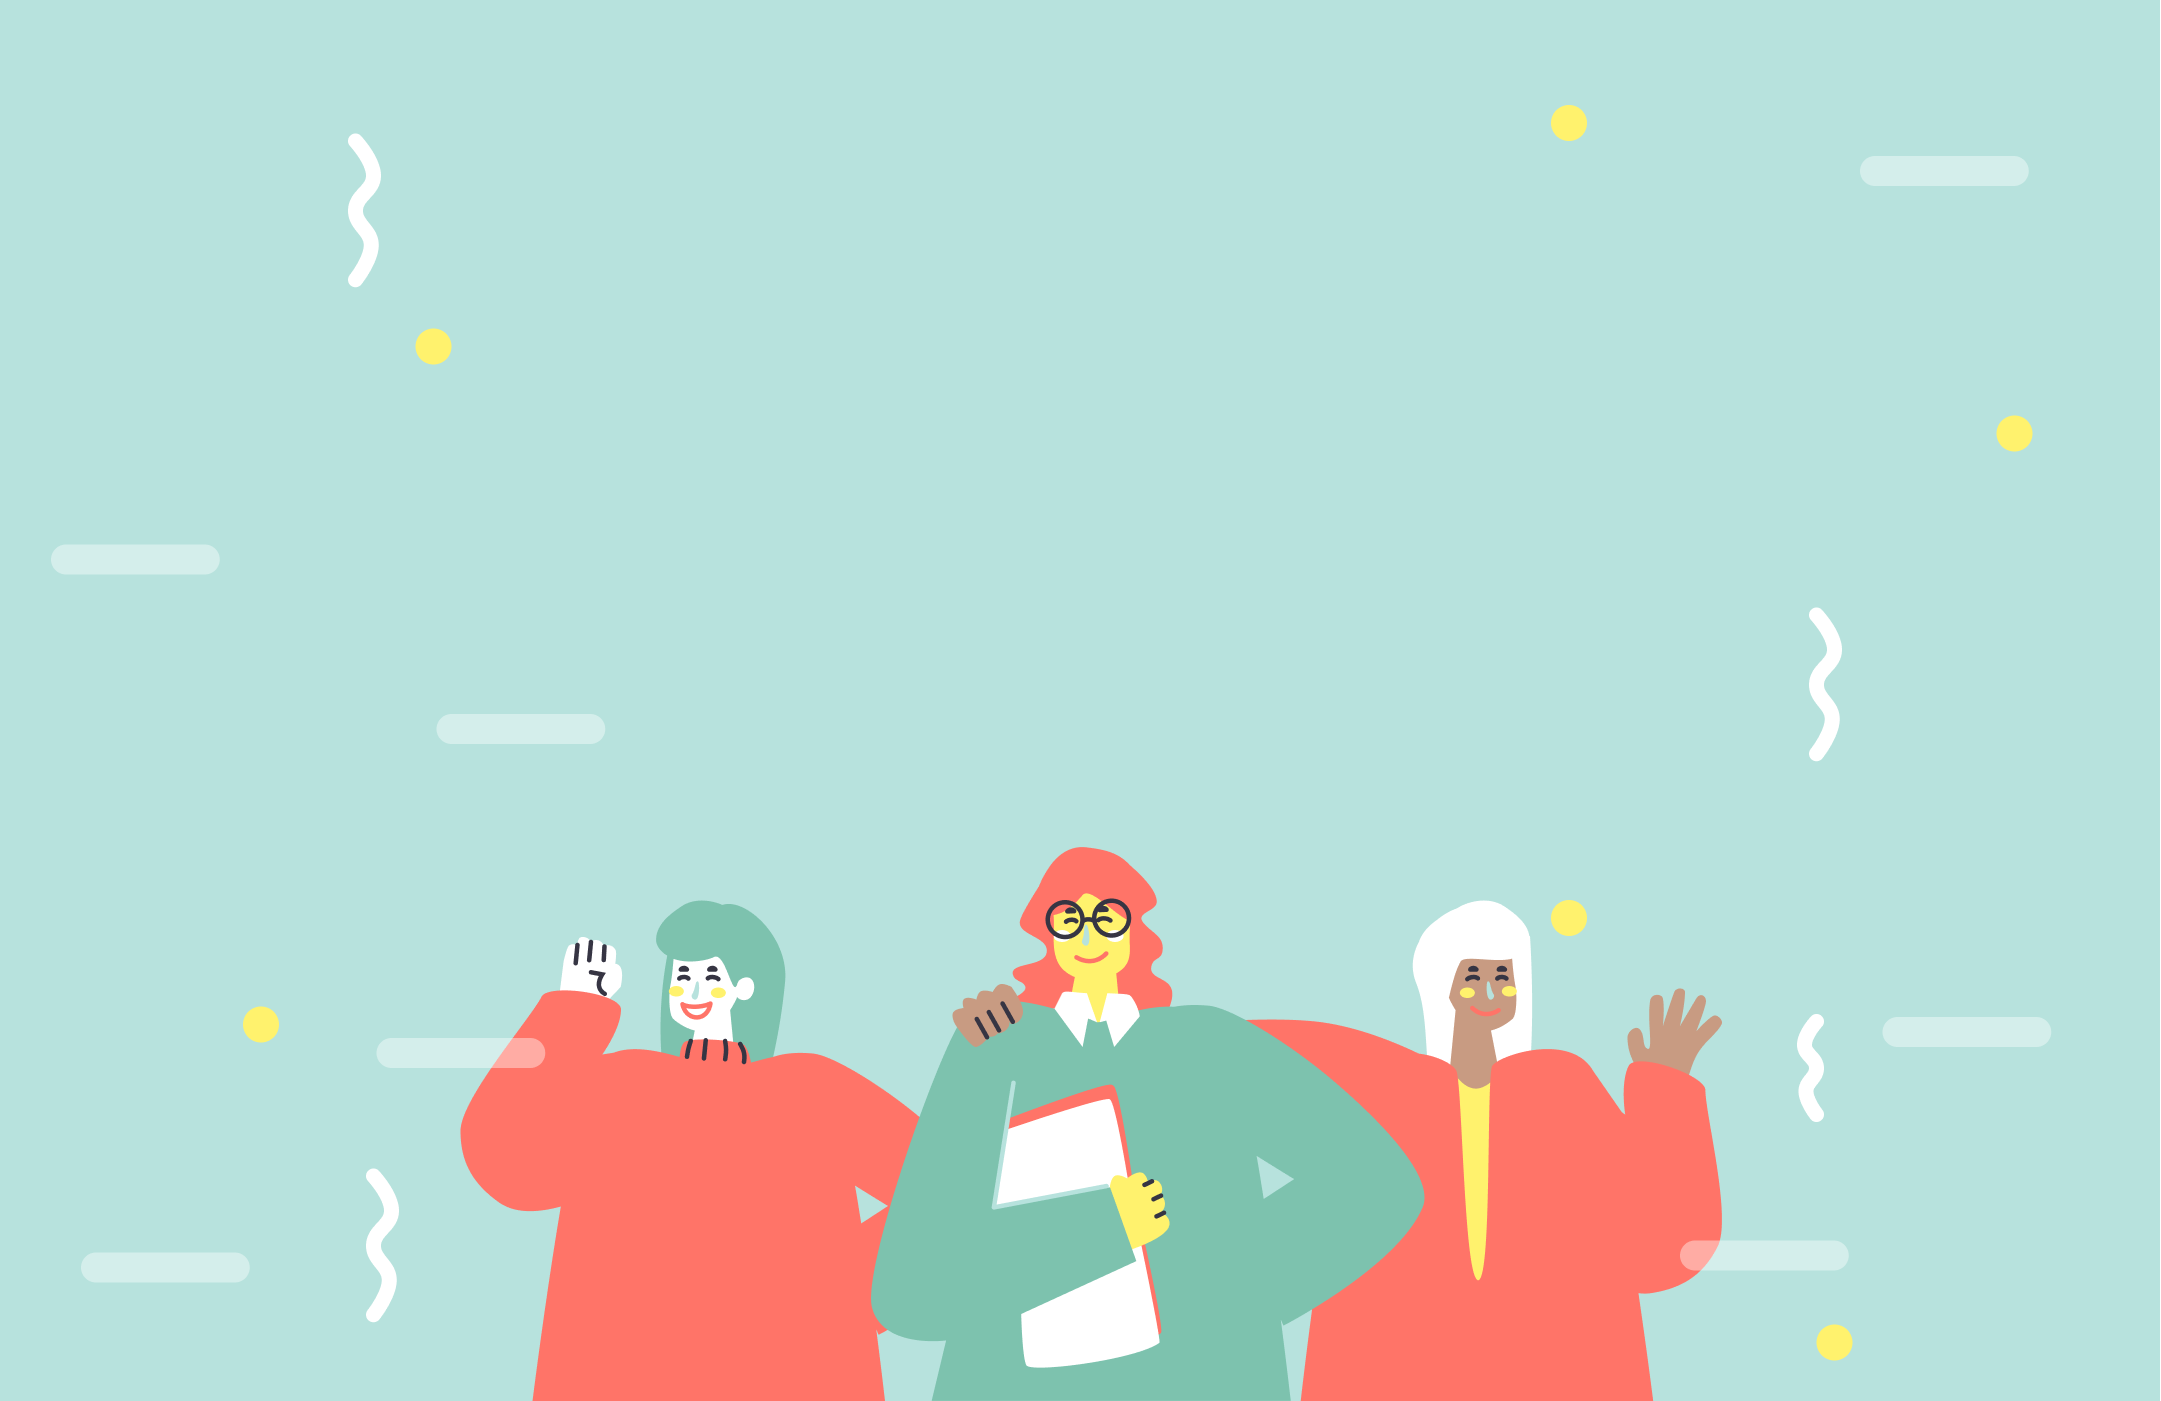
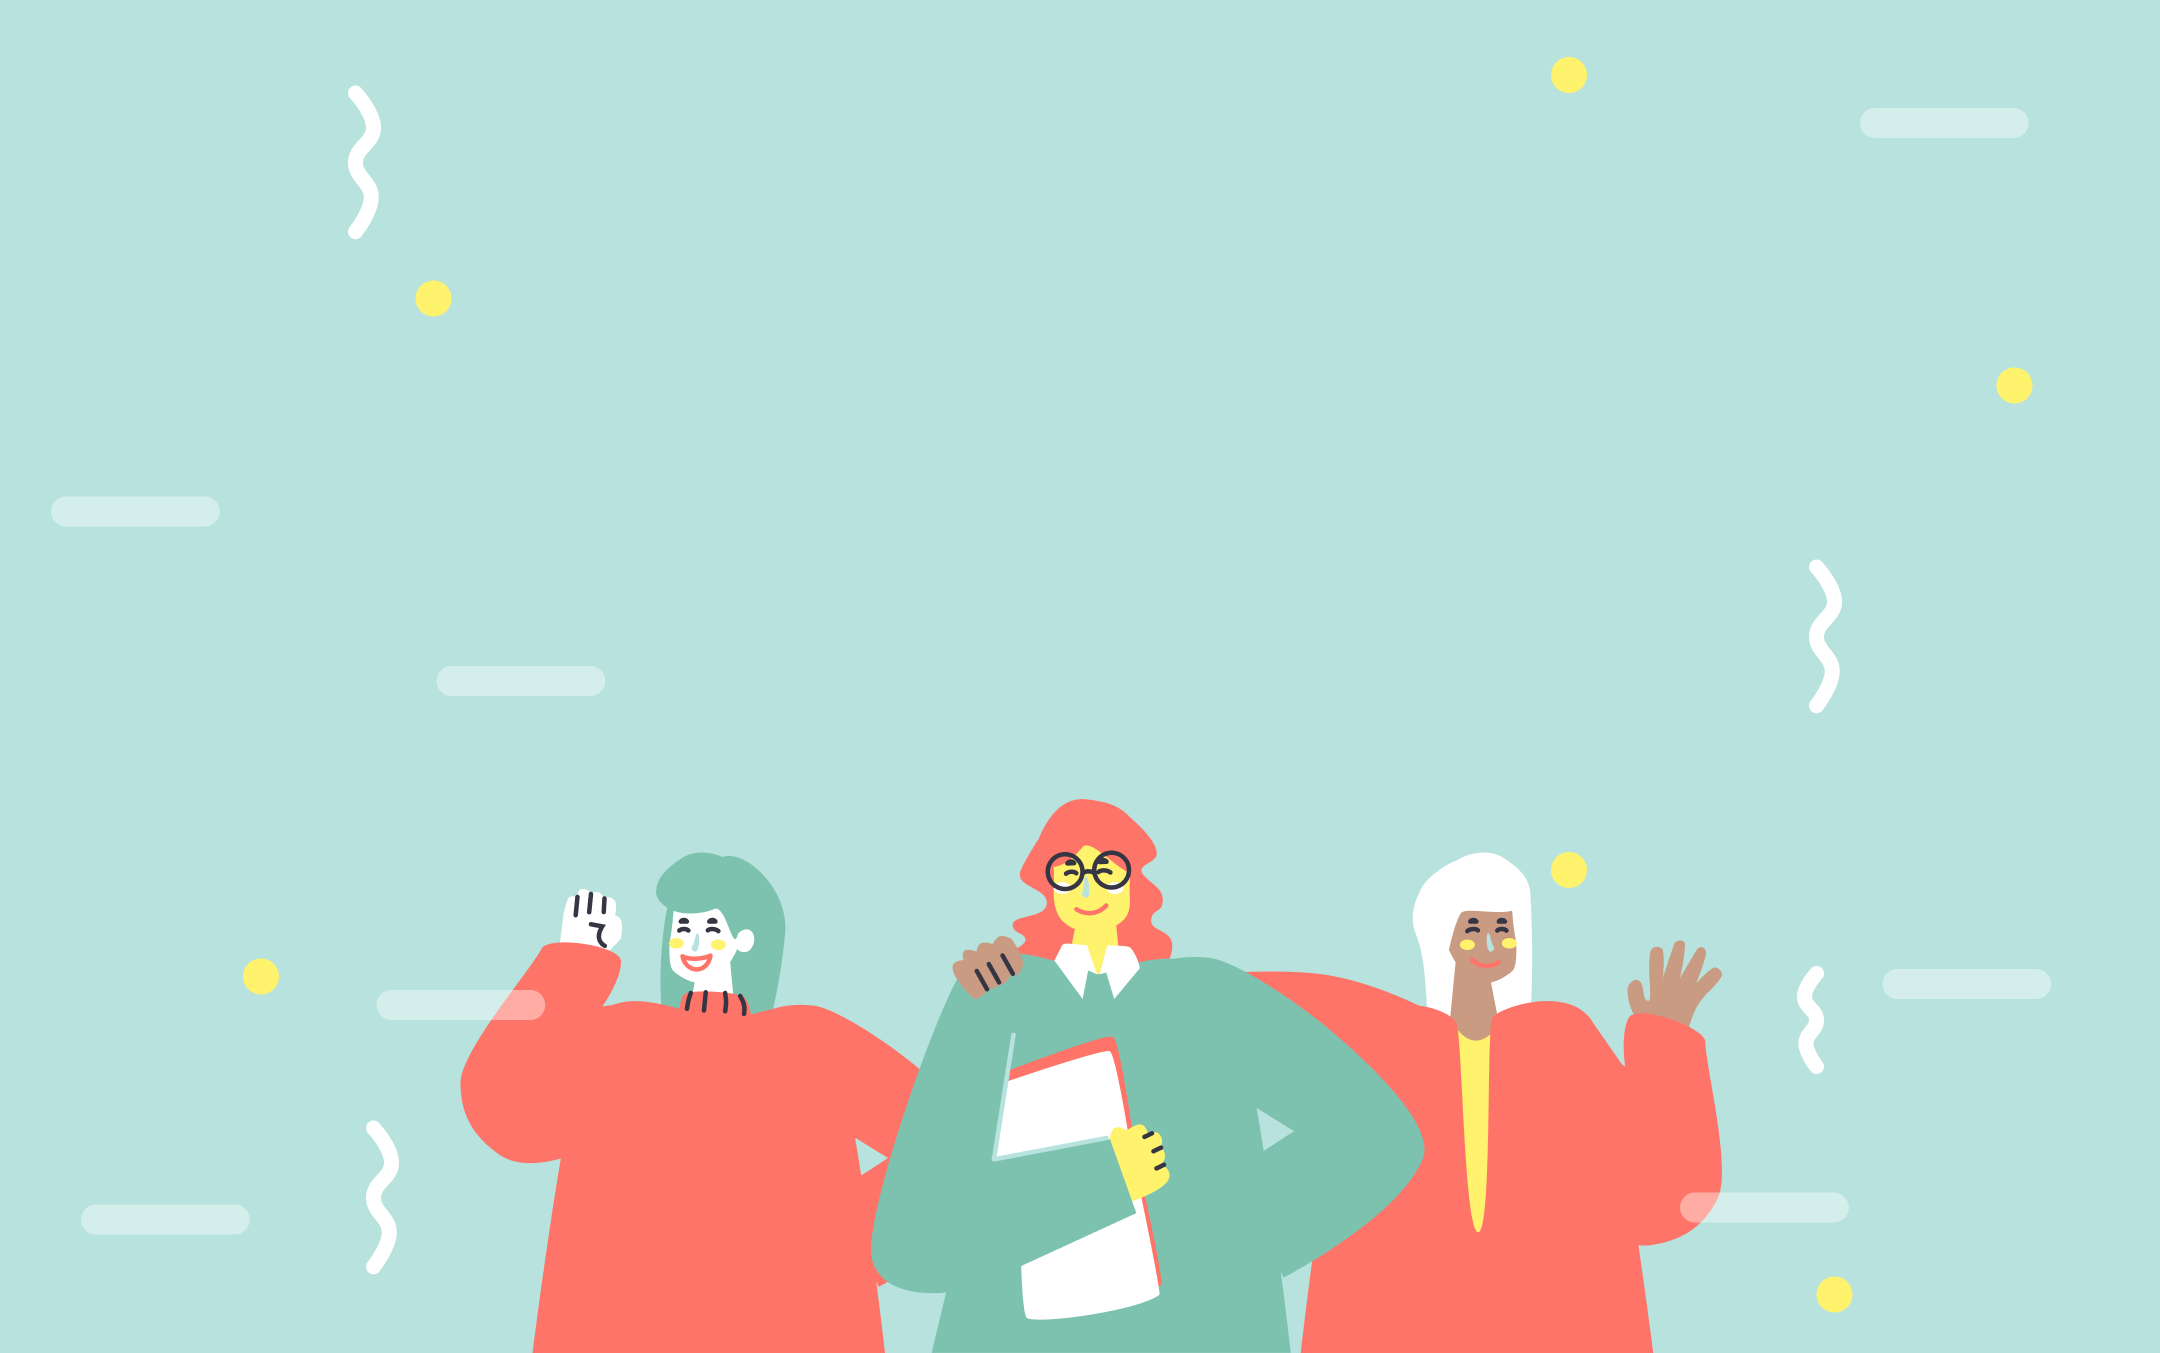
Finished Landing page

diff --git a/index.css b/index.css
@@ -1,14 +1,16 @@
 body{
     background-color: #B7E2DD;
     background-image: url("images/Landingpageimage.jpg");
-    background-position: center; /* Center the image */
-    background-repeat: no-repeat; /* Do not repeat the image */
-    background-size: cover;
+        background-position: center top;
+        background-repeat: no-repeat;
+        background-size: cover;
+        width: auto;
+        max-width: 100%;
 }
 #container{
     border-radius:24px;
     position:absolute;
-    top: 55%;
+    top: 50%;
     left:50%;
     transform: translate(-50%,-55%);
    text-align:center;
